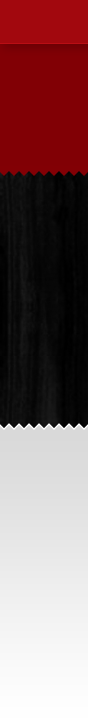
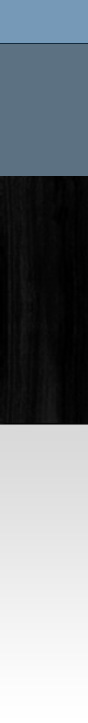
reds -> blues

diff --git a/style.css b/style.css
@@ -106,7 +106,7 @@ body{
 }
 #mainmenu ul li a:hover, #mainmenu .current_page_item a, #mainmenu .select a{
 	color:#fff;
-	background:#9d0d12;
+	background:#5c7182;
 	text-decoration:none;
 }
 /*1st sub level menu*/
@@ -136,7 +136,7 @@ body{
 	height:auto;
 	padding: 7px 5px 7px 10px;
 	margin: 0;
-	background:#9d0d12;
+	background:#5c7182;
 	border-top-width: 0;
 	text-align:left;
 	text-decoration:none;
